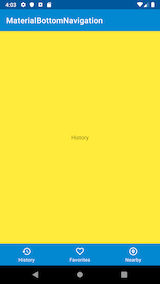
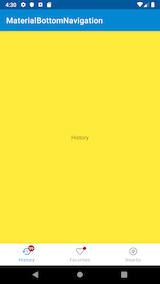
add badges

Changed region(s): [[0.0, 0.8451, 1.0, 0.9577], [0.0625, 0.0, 0.0938, 0.0282]]

diff --git a/app/src/main/java/com/github/skyfe79/materialbottomnavigation/MainActivity.kt b/app/src/main/java/com/github/skyfe79/materialbottomnavigation/MainActivity.kt
@@ -27,6 +27,12 @@ class MainActivity : AppCompatActivity() {
             .replace(R.id.fragmentContainer, historyFragment)
             .commitAllowingStateLoss()
 
+        bottomNavigation.showBadge(R.id.action_history)
+            .number = 99
+
+        bottomNavigation.showBadge(R.id.action_favorites)
+            .clearBadgeNumber()
+
         bottomNavigation.setOnNavigationItemSelectedListener {
             when(it.itemId) {
                 R.id.action_history -> {
